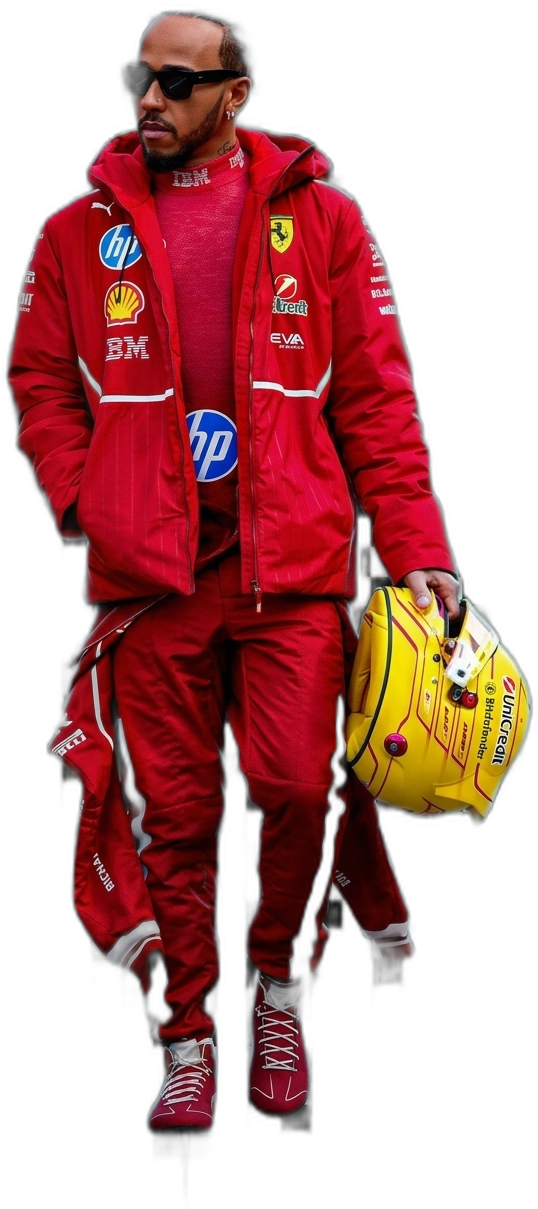
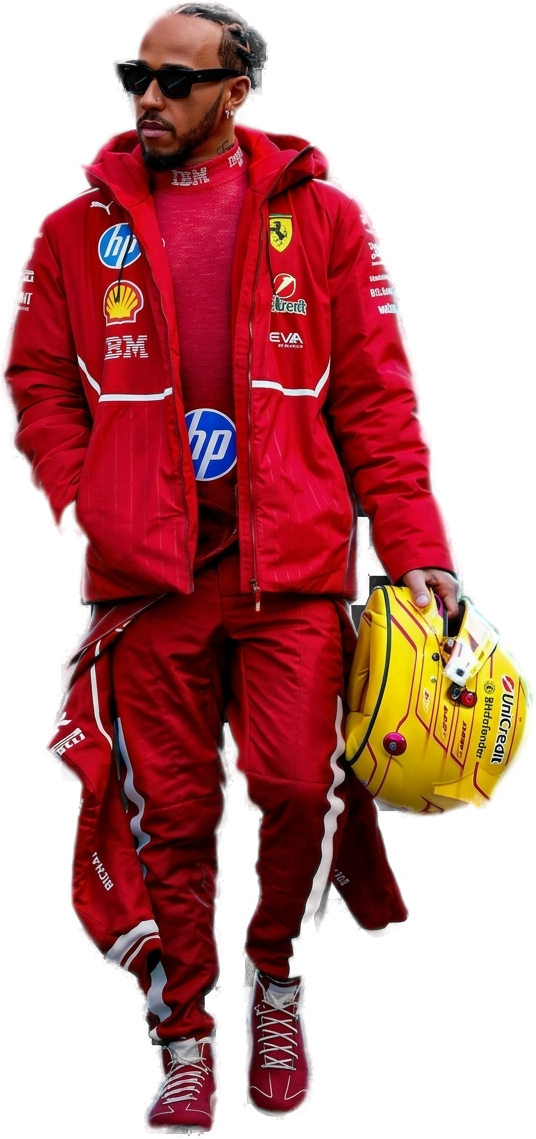
## Hair Fix Verified - Root cause: the first background-removal model clipped Lewis's dark braided cornrows against the dark backdrop; re-processed the Ferrari cutout with a human-segmentation model + alpha matting so every braid is preserved, and corrected the image ratio - Testing agent confirmed 
- Next Action Items:
  - **Chapter Worlds Polish**: Finish restyling the remaining chapters so each one feels like a world in itself
  - **Scroll Soak Test**: Run a full desktop and mobile scroll test across all 11 chapters to confirm zero crashes
  - **Era-Matched Copy**: Make the callout stories change per team era (2007 rookie vs Mercedes dynasty vs Ferrari chapter)
  - **Shareable Hero Card**: Turn the hero with a chosen callout fact into a shareable image fans can post

diff --git a/frontend/src/components/HeroStage.jsx b/frontend/src/components/HeroStage.jsx
@@ -20,7 +20,7 @@ const HOTSPOT_CONTENT = {
 const LAYOUTS = {
   ferrari: {
     img: "/images/lewis-ferrari.png",
-    ratio: "538 / 1209",
+    ratio: "536 / 1139",
     spots: [
       { id: "head", top: "3%", left: "37%", side: "left", line: [[0, 0], [-52, -26], [-150, -26]] },
       { id: "shoulders", top: "17%", left: "63%", side: "right", line: [[0, 0], [52, -14], [150, -14]] },
